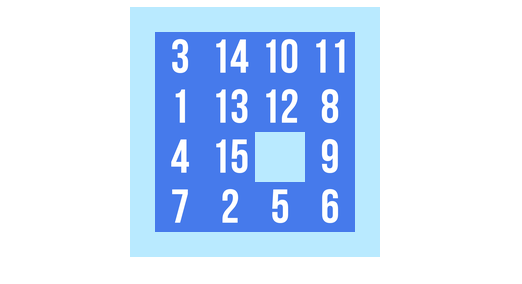
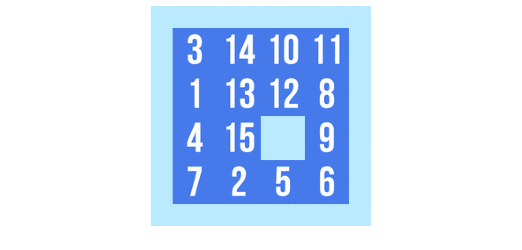
Add sbot project
- Change styling for 4 projects
- Change image sizes

Changed region(s): [[0.2452, 0.0, 0.7356, 0.924], [0.5211, 0.672, 0.5824, 0.784]]

diff --git a/index.html b/index.html
@@ -64,80 +64,127 @@
       <p class="portfolio-description">
         Here are some projects I've worked on as a collaborator or on my own.
       </p>
-      <div id="kanban-boards" class="project">
-        <div class="project-info">
-          <h2 class="project-title">Kanban Boards</h2>
-          <p class="project-description">
-            I built this project as part of a team. We built a web app for
-            convenient task management like Trello. It allows users to create
-            new cards and drag them between columns.
-          </p>
-          <p class="project-description">
-            Tools: React, Material-UI, Typescript, MongoDB, Express, NodeJS
-          </p>
-          <div class="project-btns">
-            <a class="code-btn" href="https://github.com/samimsu/kanban-boards"
-              ><code>&#60;code&#62;</code></a
-            >
-            <a class="demo-btn" href="#">Demo</a>
+
+      <div class="project-group">
+        <div id="kanban-boards" class="project">
+          <div class="project-info">
+            <h2 class="project-title">Kanban Boards</h2>
+            <p class="project-description">
+              A web app for convenient task management like Trello. This was a
+              group project. The app allows users to create new tasks and drag
+              them between columns.
+            </p>
+            <p class="project-description">
+              Tools: React, Material-UI, Typescript, MongoDB, Express, NodeJS
+            </p>
+            <div class="project-btns">
+              <a
+                class="code-btn"
+                href="https://github.com/samimsu/kanban-boards"
+                ><code>&#60;code&#62;</code></a
+              >
+              <a class="demo-btn" href="#">Demo</a>
+            </div>
           </div>
+          <a href="images/kanban-boards-screenshot.jpg" target="new">
+            <img
+              src="images/kanban-boards-screenshot.jpg"
+              width="650"
+              class="project-image"
+            />
+          </a>
         </div>
-        <img
-          src="images/kanban-boards-screenshot.jpg"
-          width="650"
-          class="project-image"
-        />
+
+        <div id="sliding-puzzle-game" class="project">
+          <div class="project-info">
+            <h2 class="project-title">Slidey</h2>
+            <p class="project-description">
+              A sliding puzzle web game created for a Codecademy hackathon. I
+              worked with a partner to create this game. The objective is to
+              slide the tiles using the arrows keys to get them into the correct
+              order.
+            </p>
+            <p class="project-description">Tools: Phaser.js, Node.js</p>
+            <div class="project-btns">
+              <a
+                class="code-btn"
+                href="https://github.com/samimsu/cc-hackathon-game"
+                ><code>&#60;code&#62;</code></a
+              >
+              <a
+                class="demo-btn"
+                href="https://samimsu.github.io/cc-hackathon-game"
+                >Demo</a
+              >
+            </div>
+          </div>
+          <a href="images/sliding-puzzle-game-big.png" target="new">
+            <img
+              src="images/sliding-puzzle-game.png"
+              width="650"
+              class="project-image"
+            />
+          </a>
+        </div>
       </div>
 
-      <div id="sliding-puzzle-game" class="project">
-        <div class="project-info">
-          <h2 class="project-title">Slidey</h2>
-          <p class="project-description">
-            A sliding puzzle web game created for a Codecademy hackathon. I
-            worked with a partner to create this game. The objective is to slide
-            the tiles using the arrows keys to get them into the correct order.
-          </p>
-          <p class="project-description">Tools: Phaser.js, Node.js</p>
-          <div class="project-btns">
-            <a
-              class="code-btn"
-              href="https://github.com/samimsu/cc-hackathon-game"
-              ><code>&#60;code&#62;</code></a
-            >
-            <a
-              class="demo-btn"
-              href="https://samimsu.github.io/cc-hackathon-game"
-              >Demo</a
-            >
+      <div class="project-group">
+        <div id="s-bot" class="project">
+          <div class="project-info">
+            <h2 class="project-title">SBot</h2>
+            <p class="project-description">
+              A multipurpose chatbot for Discord to make instant messaging a
+              little more fun. Different commands are provided and the bot
+              responds accordingly.
+            </p>
+            <p class="project-description">Tools: Discord.py, Python</p>
+            <div class="project-btns">
+              <a
+                class="code-btn"
+                href="https://github.com/samimsu/SBot-Discord/"
+                ><code>&#60;code&#62;</code></a
+              >
+              <a class="demo-btn" href="#">Demo</a>
+            </div>
           </div>
+          <a href="images/sbot-youtube.png" target="new">
+            <img
+              src="images/sbot-youtube.png"
+              width="650"
+              class="project-image"
+            />
+          </a>
         </div>
-        <img
-          src="images/sliding-puzzle-game.png"
-          width="650"
-          class="project-image"
-        />
-      </div>
 
-      <div id="breakout-game" class="project">
-        <div class="project-info">
-          <h2 class="project-title">2D Breakout</h2>
-          <p class="project-description">
-            A version of the famous breakout game. It was created with only
-            javascript and no libraries. The objective is to destroy all the
-            bricks. It can be played on a PC using the mouse/keyboard or on a
-            mobile in landscape mode.
-          </p>
-          <p class="project-description">Tools: Javascript</p>
-          <div class="project-btns">
-            <a class="code-btn" href="https://github.com/samimsu/breakout-game"
-              ><code>&#60;code&#62;</code></a
-            >
-            <a class="demo-btn" href="https://samimsu.github.io/breakout-game"
-              >Demo</a
-            >
+        <div id="breakout-game" class="project">
+          <div class="project-info">
+            <h2 class="project-title">2D Breakout</h2>
+            <p class="project-description">
+              A web version of the famous breakout game. It was created with
+              only javascript (no libraries). The objective is to destroy all
+              the bricks. It can be played on a PC using the mouse/keyboard or
+              on a mobile in landscape mode.
+            </p>
+            <p class="project-description">Tools: Javascript</p>
+            <div class="project-btns">
+              <a
+                class="code-btn"
+                href="https://github.com/samimsu/breakout-game"
+                ><code>&#60;code&#62;</code></a
+              >
+              <a class="demo-btn" href="https://samimsu.github.io/breakout-game"
+                >Demo</a
+              >
+            </div>
           </div>
+          <a href="images/breakout-game-big.png" target="new">
+            <img
+              src="images/breakout-game.png"
+              width="650"
+              class="project-image"
+            />
+          </a>
         </div>
-        <img src="images/breakout-game.png" width="650" class="project-image" />
       </div>
     </div>
 

diff --git a/styles.css b/styles.css
@@ -117,9 +117,15 @@ header {
     padding: 24px;
 }
 
-.project {
+.project-group {
     display: flex;
     flex-direction: row;
+    align-items: flex-start;
+}
+
+.project {
+    display: flex;
+    flex-direction: column-reverse;
     align-items: center;
     padding: 10px;
 }
@@ -179,25 +185,30 @@ header {
     visibility: hidden;
 }
 
+#s-bot .demo-btn {
+    visibility: hidden;
+}
+
 .demo-btn:hover {
     background-color: rgb(255, 125, 0);
     border-color: rgb(255, 125, 0);
 }
 
 .project-image {
-    max-width: 522px;
+    width: 522px;
     height: auto;
     margin: 15px;
     border-radius: 10px;
     box-shadow: 0 15px 15px 5px lightgrey;
     position: relative;
     top: 0;
-    transition: top ease 0.3s;
+    /* transition: top ease 0.3s; */
+    /* transition: transform .2s; */
 }
 
-.project-image:hover {
-    top: -10px;
-}
+/* .project-image:hover {
+    transform: scale(1.5);
+} */
 
 /* about */
 
@@ -338,7 +349,7 @@ canvas {
         flex-direction: column;
         padding: 0 0 24px 0;
     }
-    .project {
+    .project-group {
         flex-direction: column;
     }
     .section {
